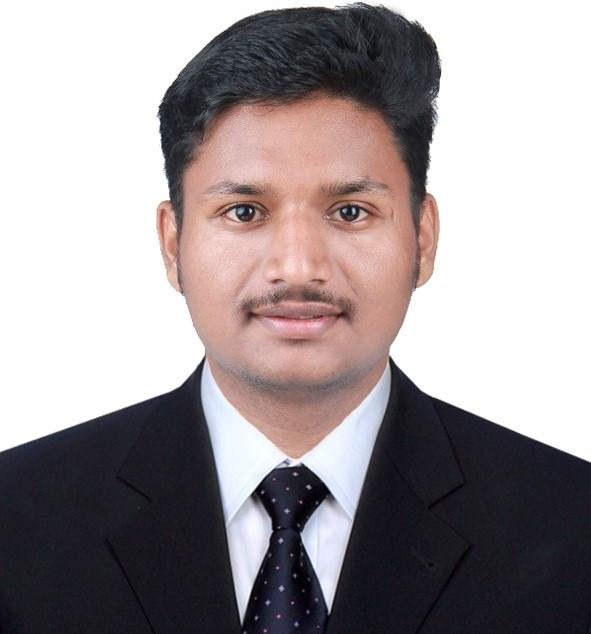
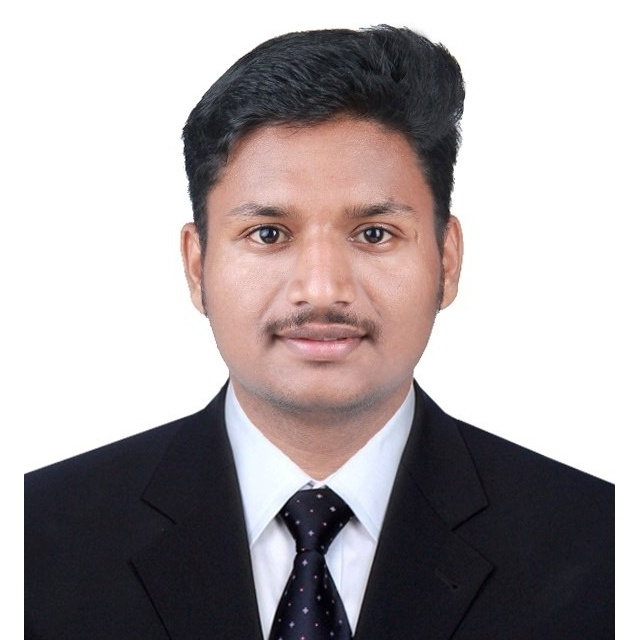
style: crop and center headshot photo with balanced headroom and 1:1 square canvas

Changed region(s): [[0.0, 0.0, 1.0, 1.0]]

diff --git a/css/main.css b/css/main.css
@@ -567,8 +567,9 @@ body::after {
   height: 100%;
   border-radius: 50%;
   object-fit: cover;
-  object-position: center 15%;
+  object-position: center center;
   border: 4px solid var(--bg-primary);
+  background-color: #ffffff;
   filter: contrast(1.03);
 }
 
